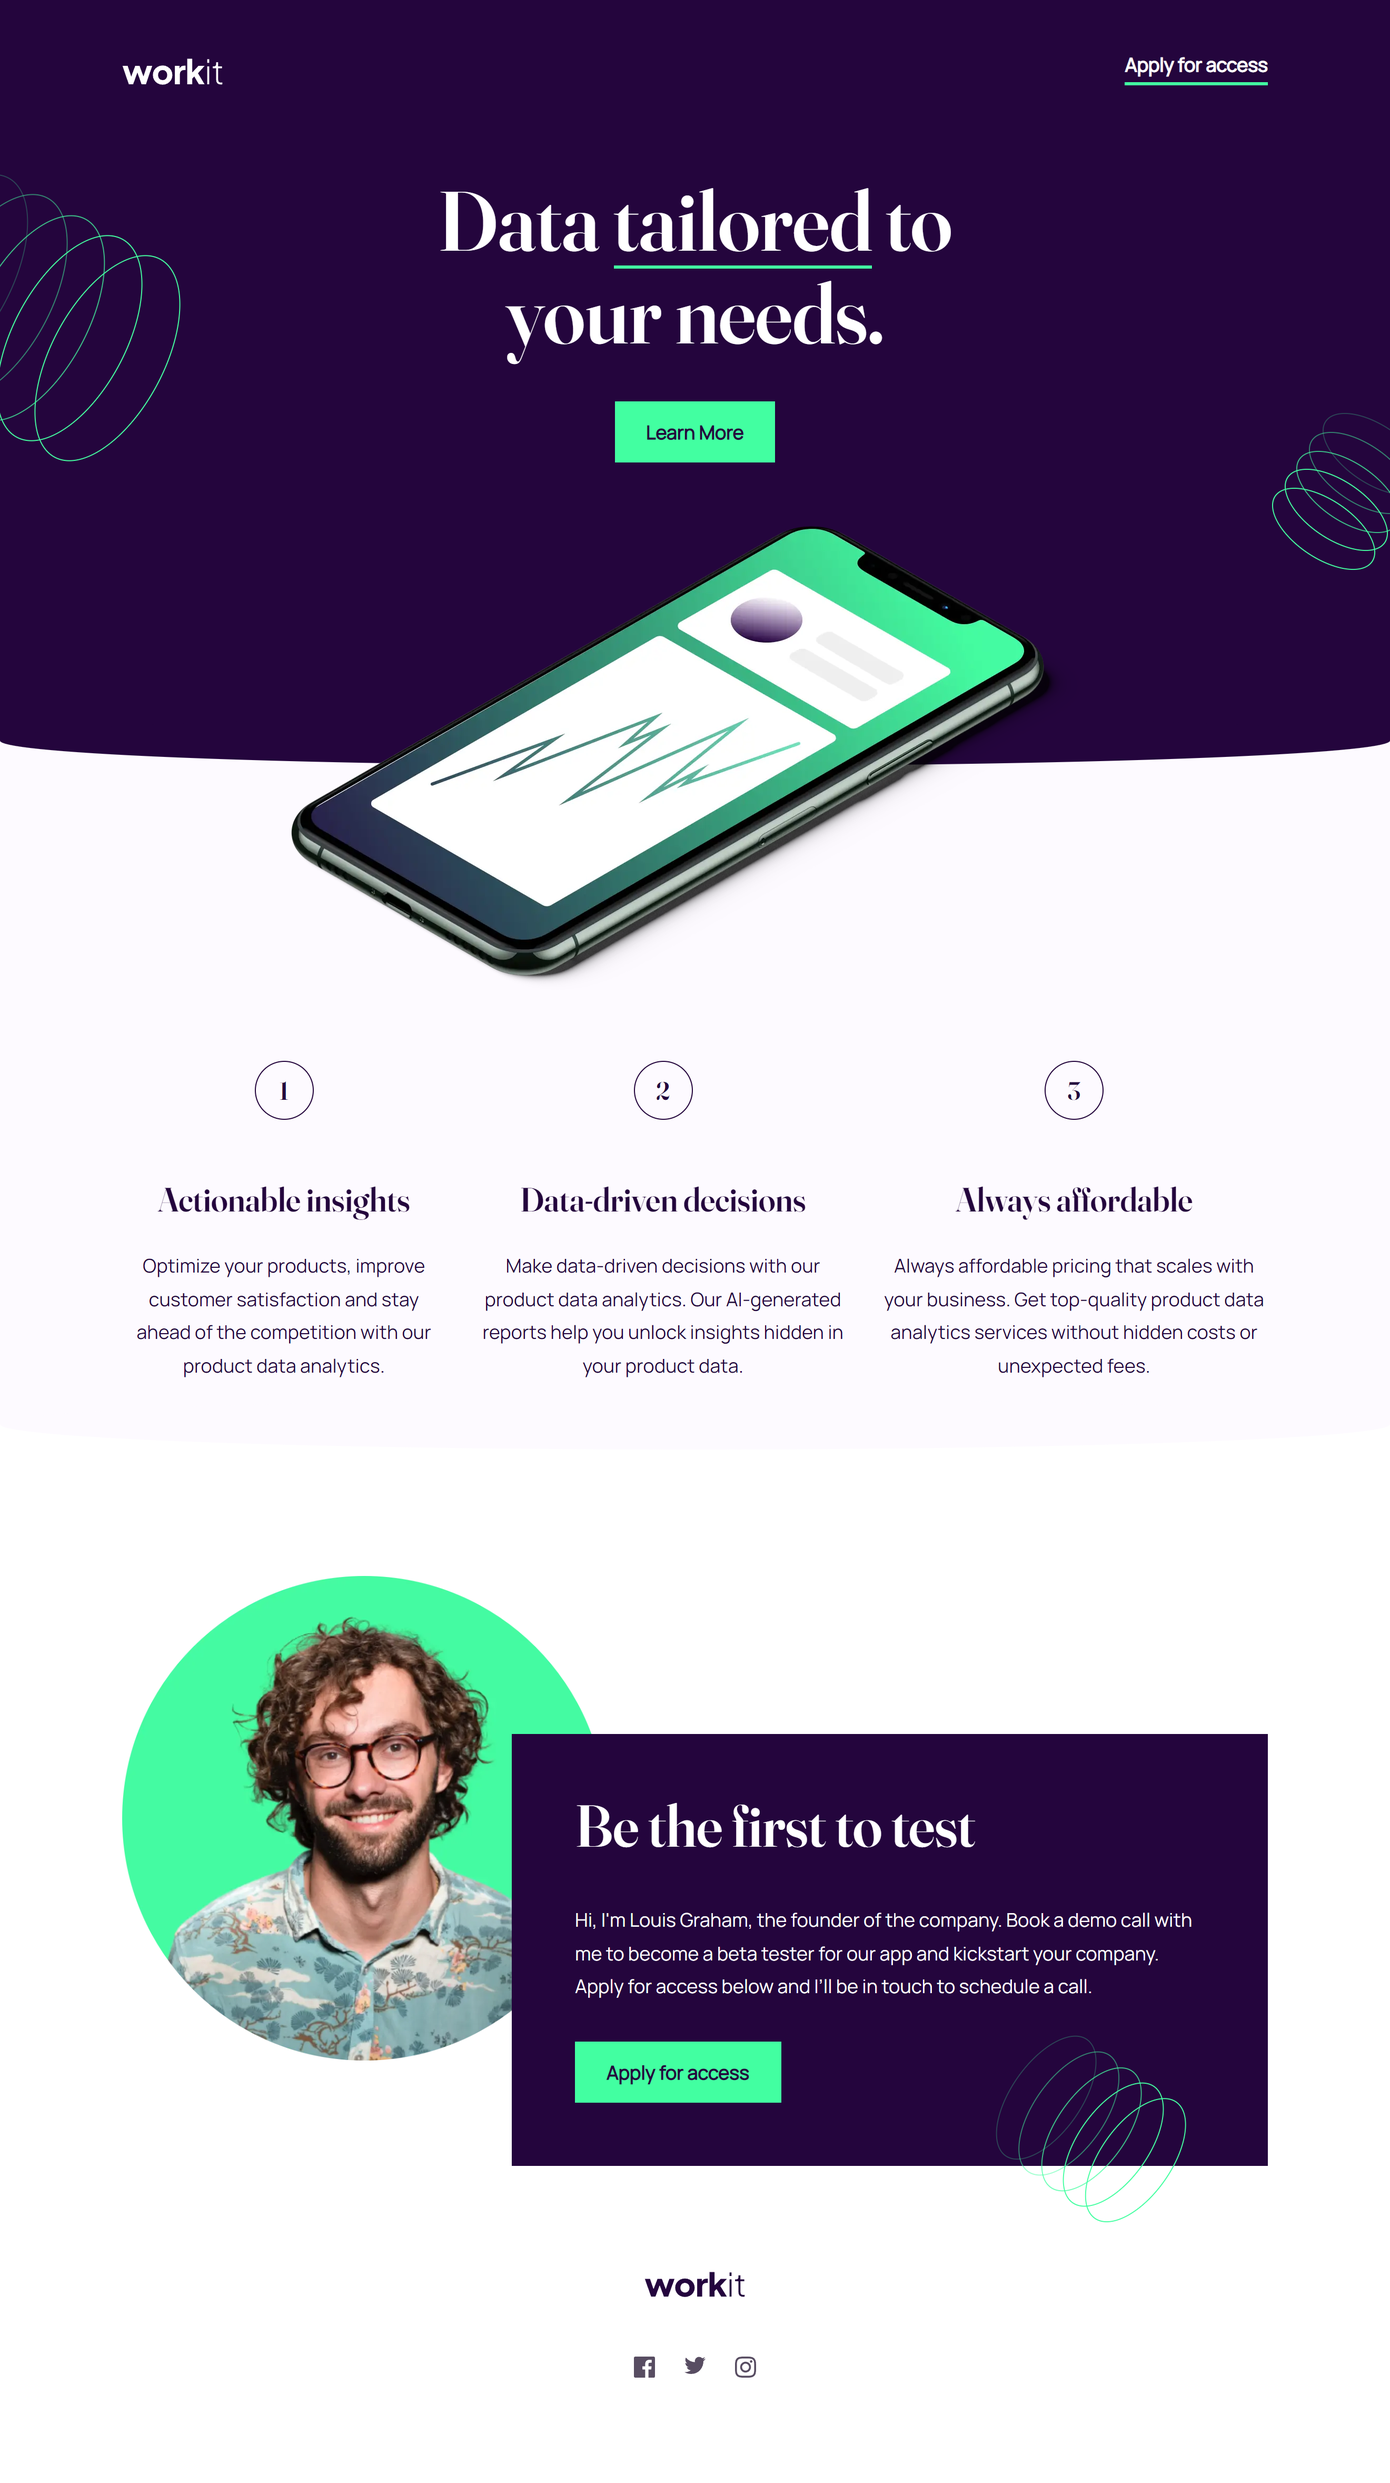
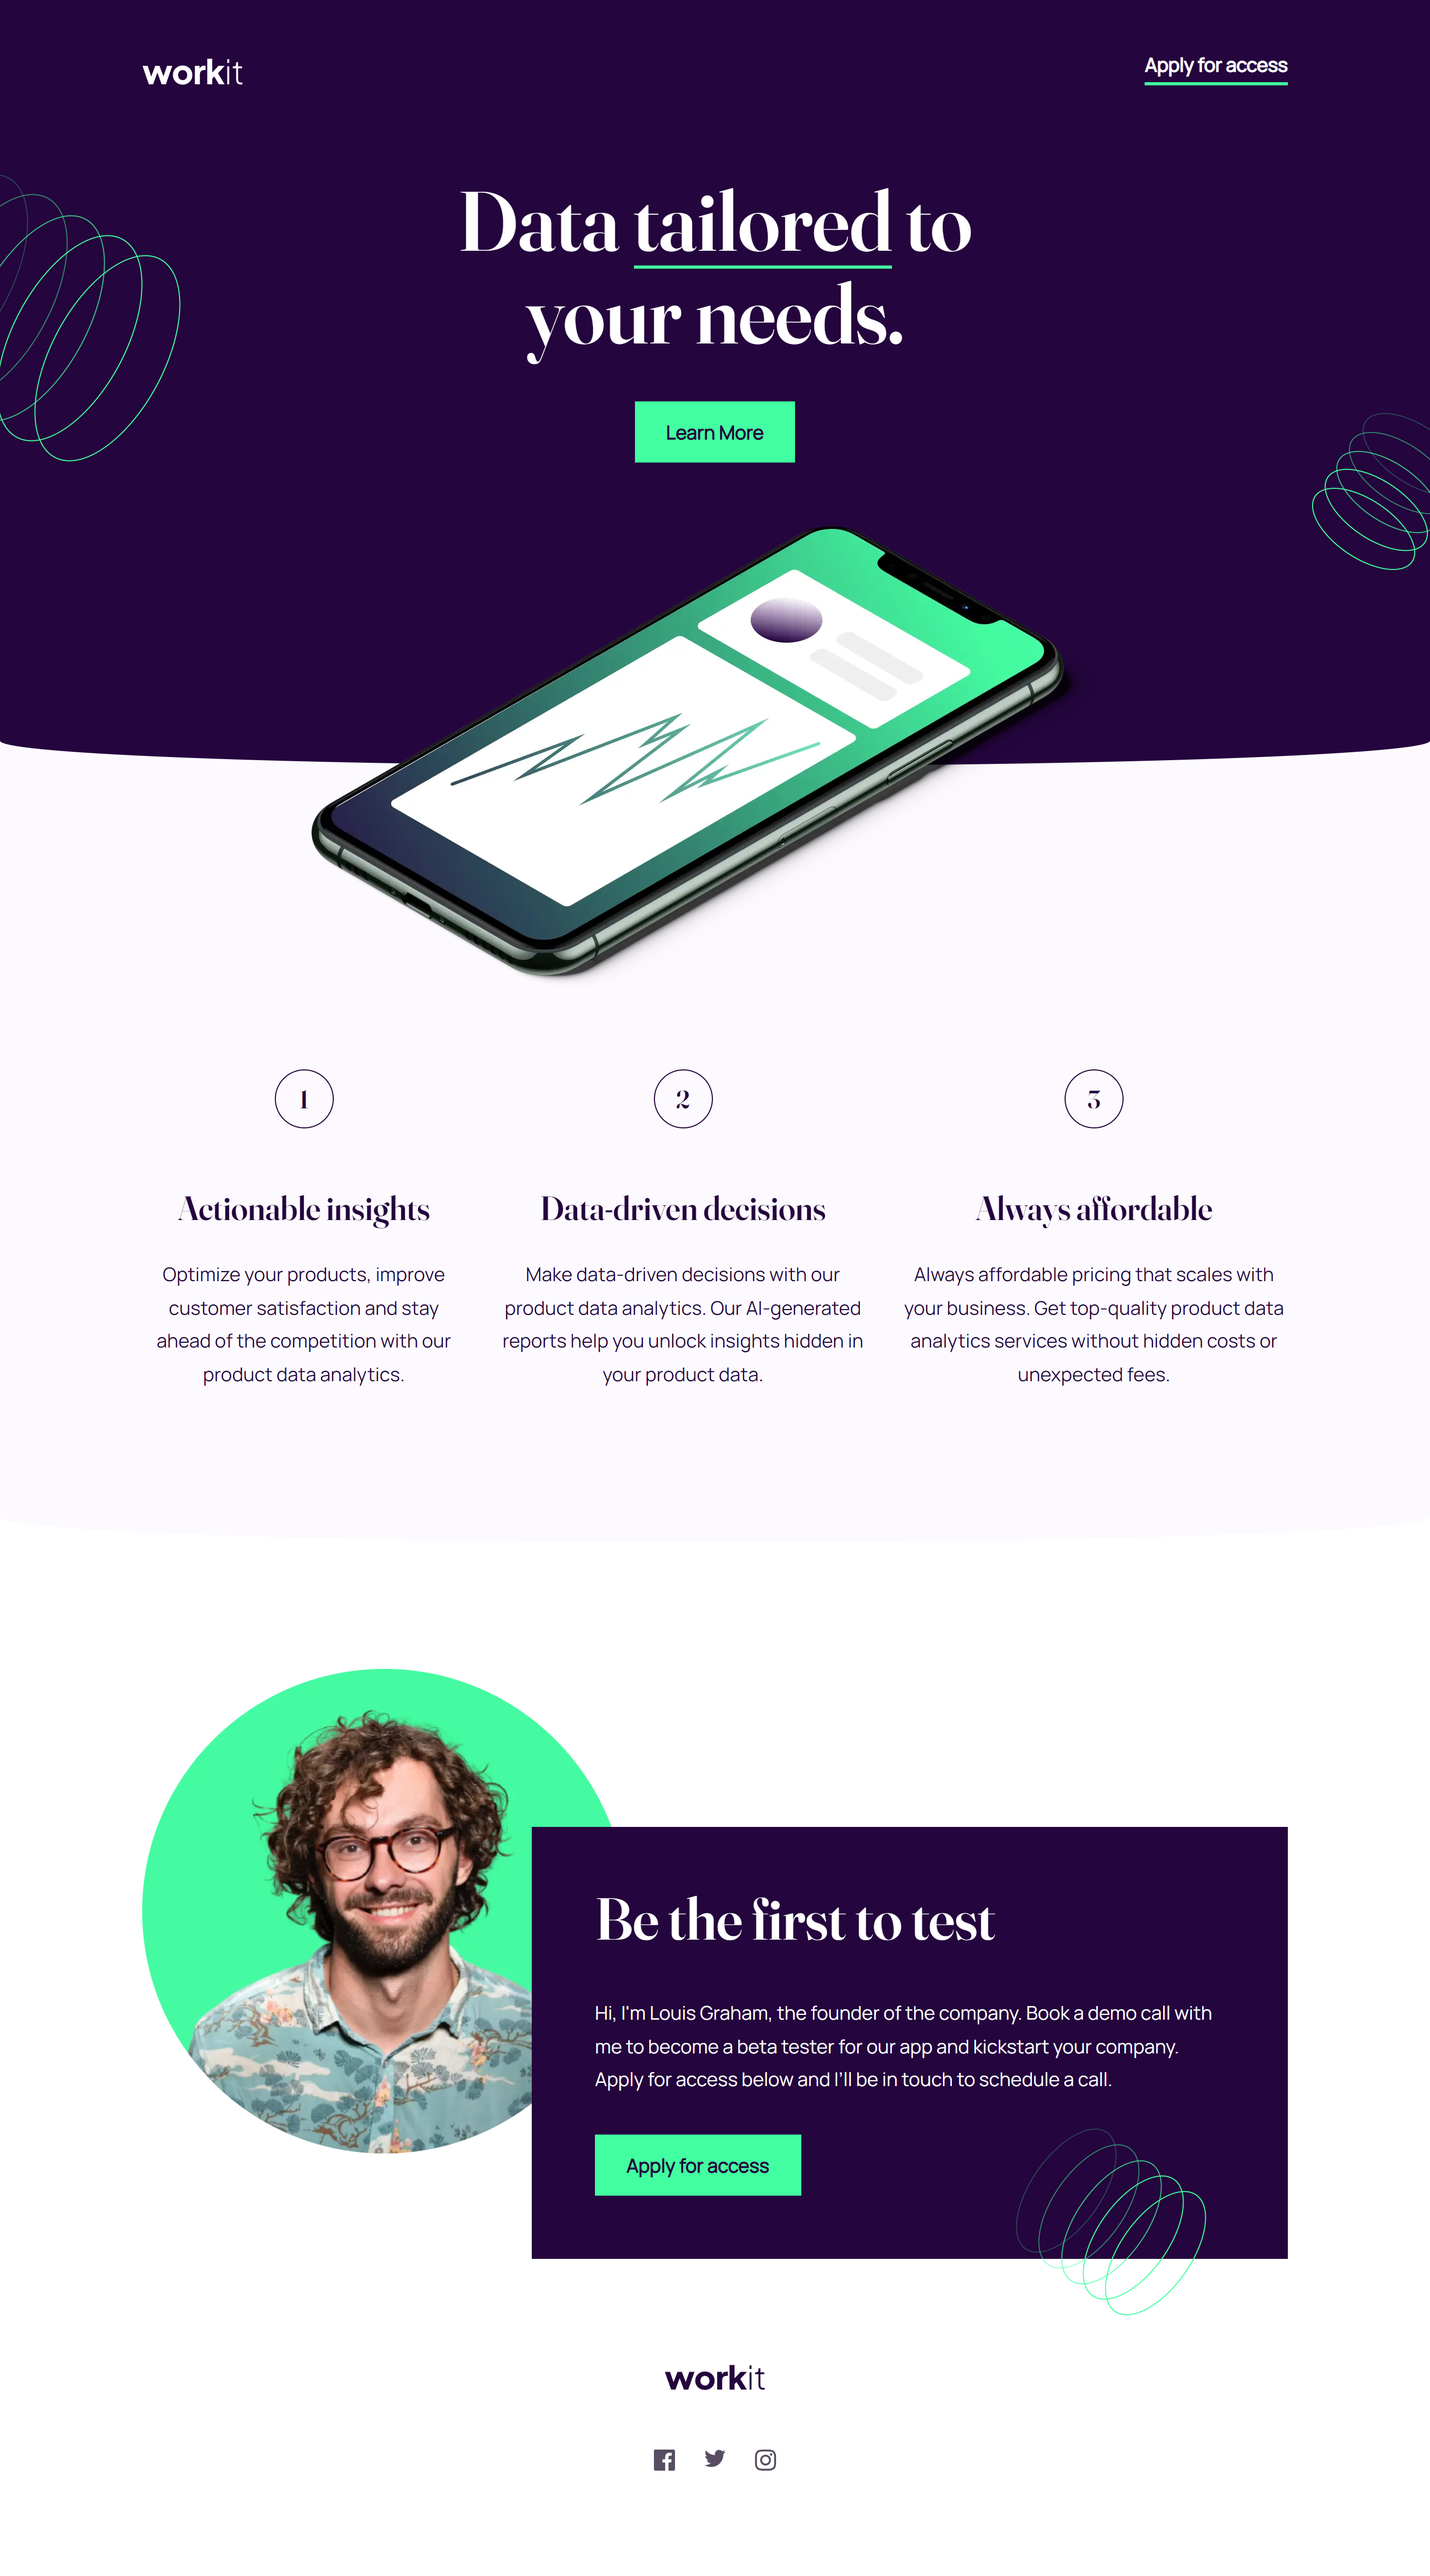
Updated features section padding across devices

diff --git a/css/styles.css b/css/styles.css
@@ -185,7 +185,7 @@ Features Section Styles
 
 .features {
   background-color: var(--clr-neurtral-400);
-  padding: 10rem 0 2.5rem 0;
+  padding: 10rem 0 3.5rem 0;
   position: relative;
 }
 
@@ -324,7 +324,7 @@ Media Query - Tablet and Desktop
 
   /* Features Section */
   .features {
-    padding: 14rem 0 2.5rem 0;
+    padding: 14.5rem 0 5.25rem 0;
   }
 
   .features .container {
@@ -446,7 +446,7 @@ Media Query - Desktop
   }
 
   .features {
-    padding: 19rem 0 2.5rem 0;
+    padding: 19.5rem 0 7.5rem 0;
   }
 
   .feature {
